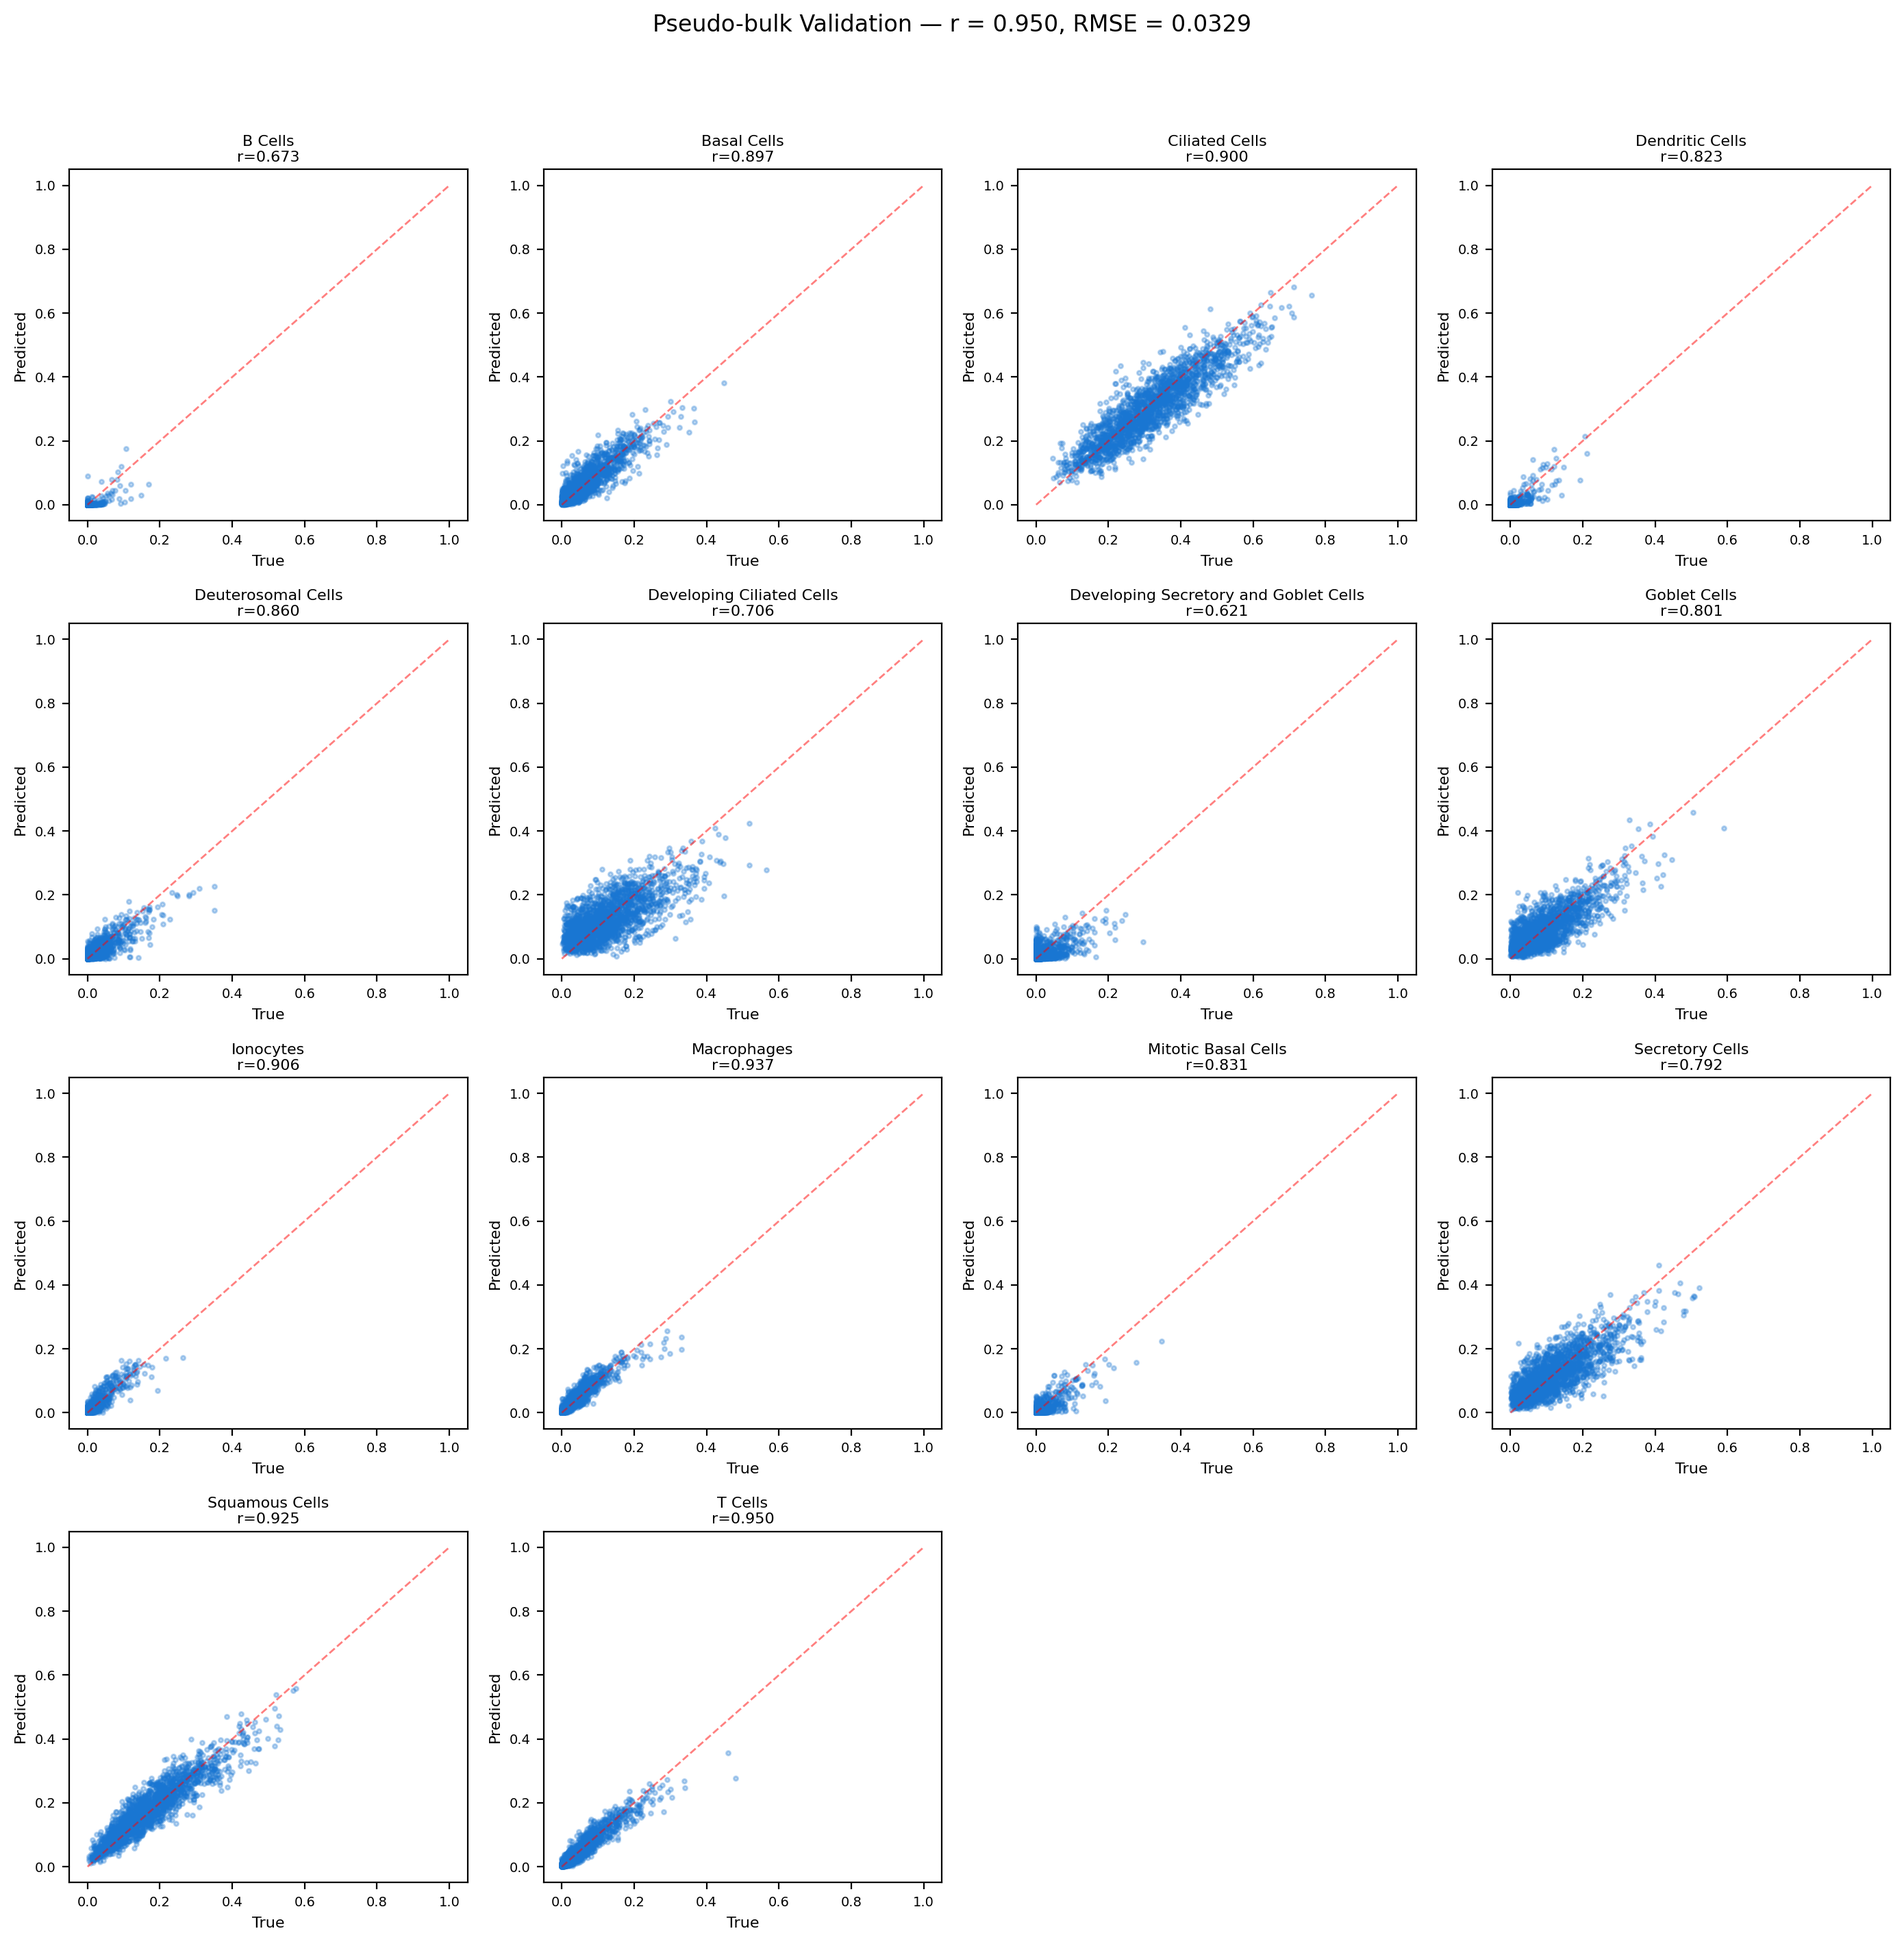
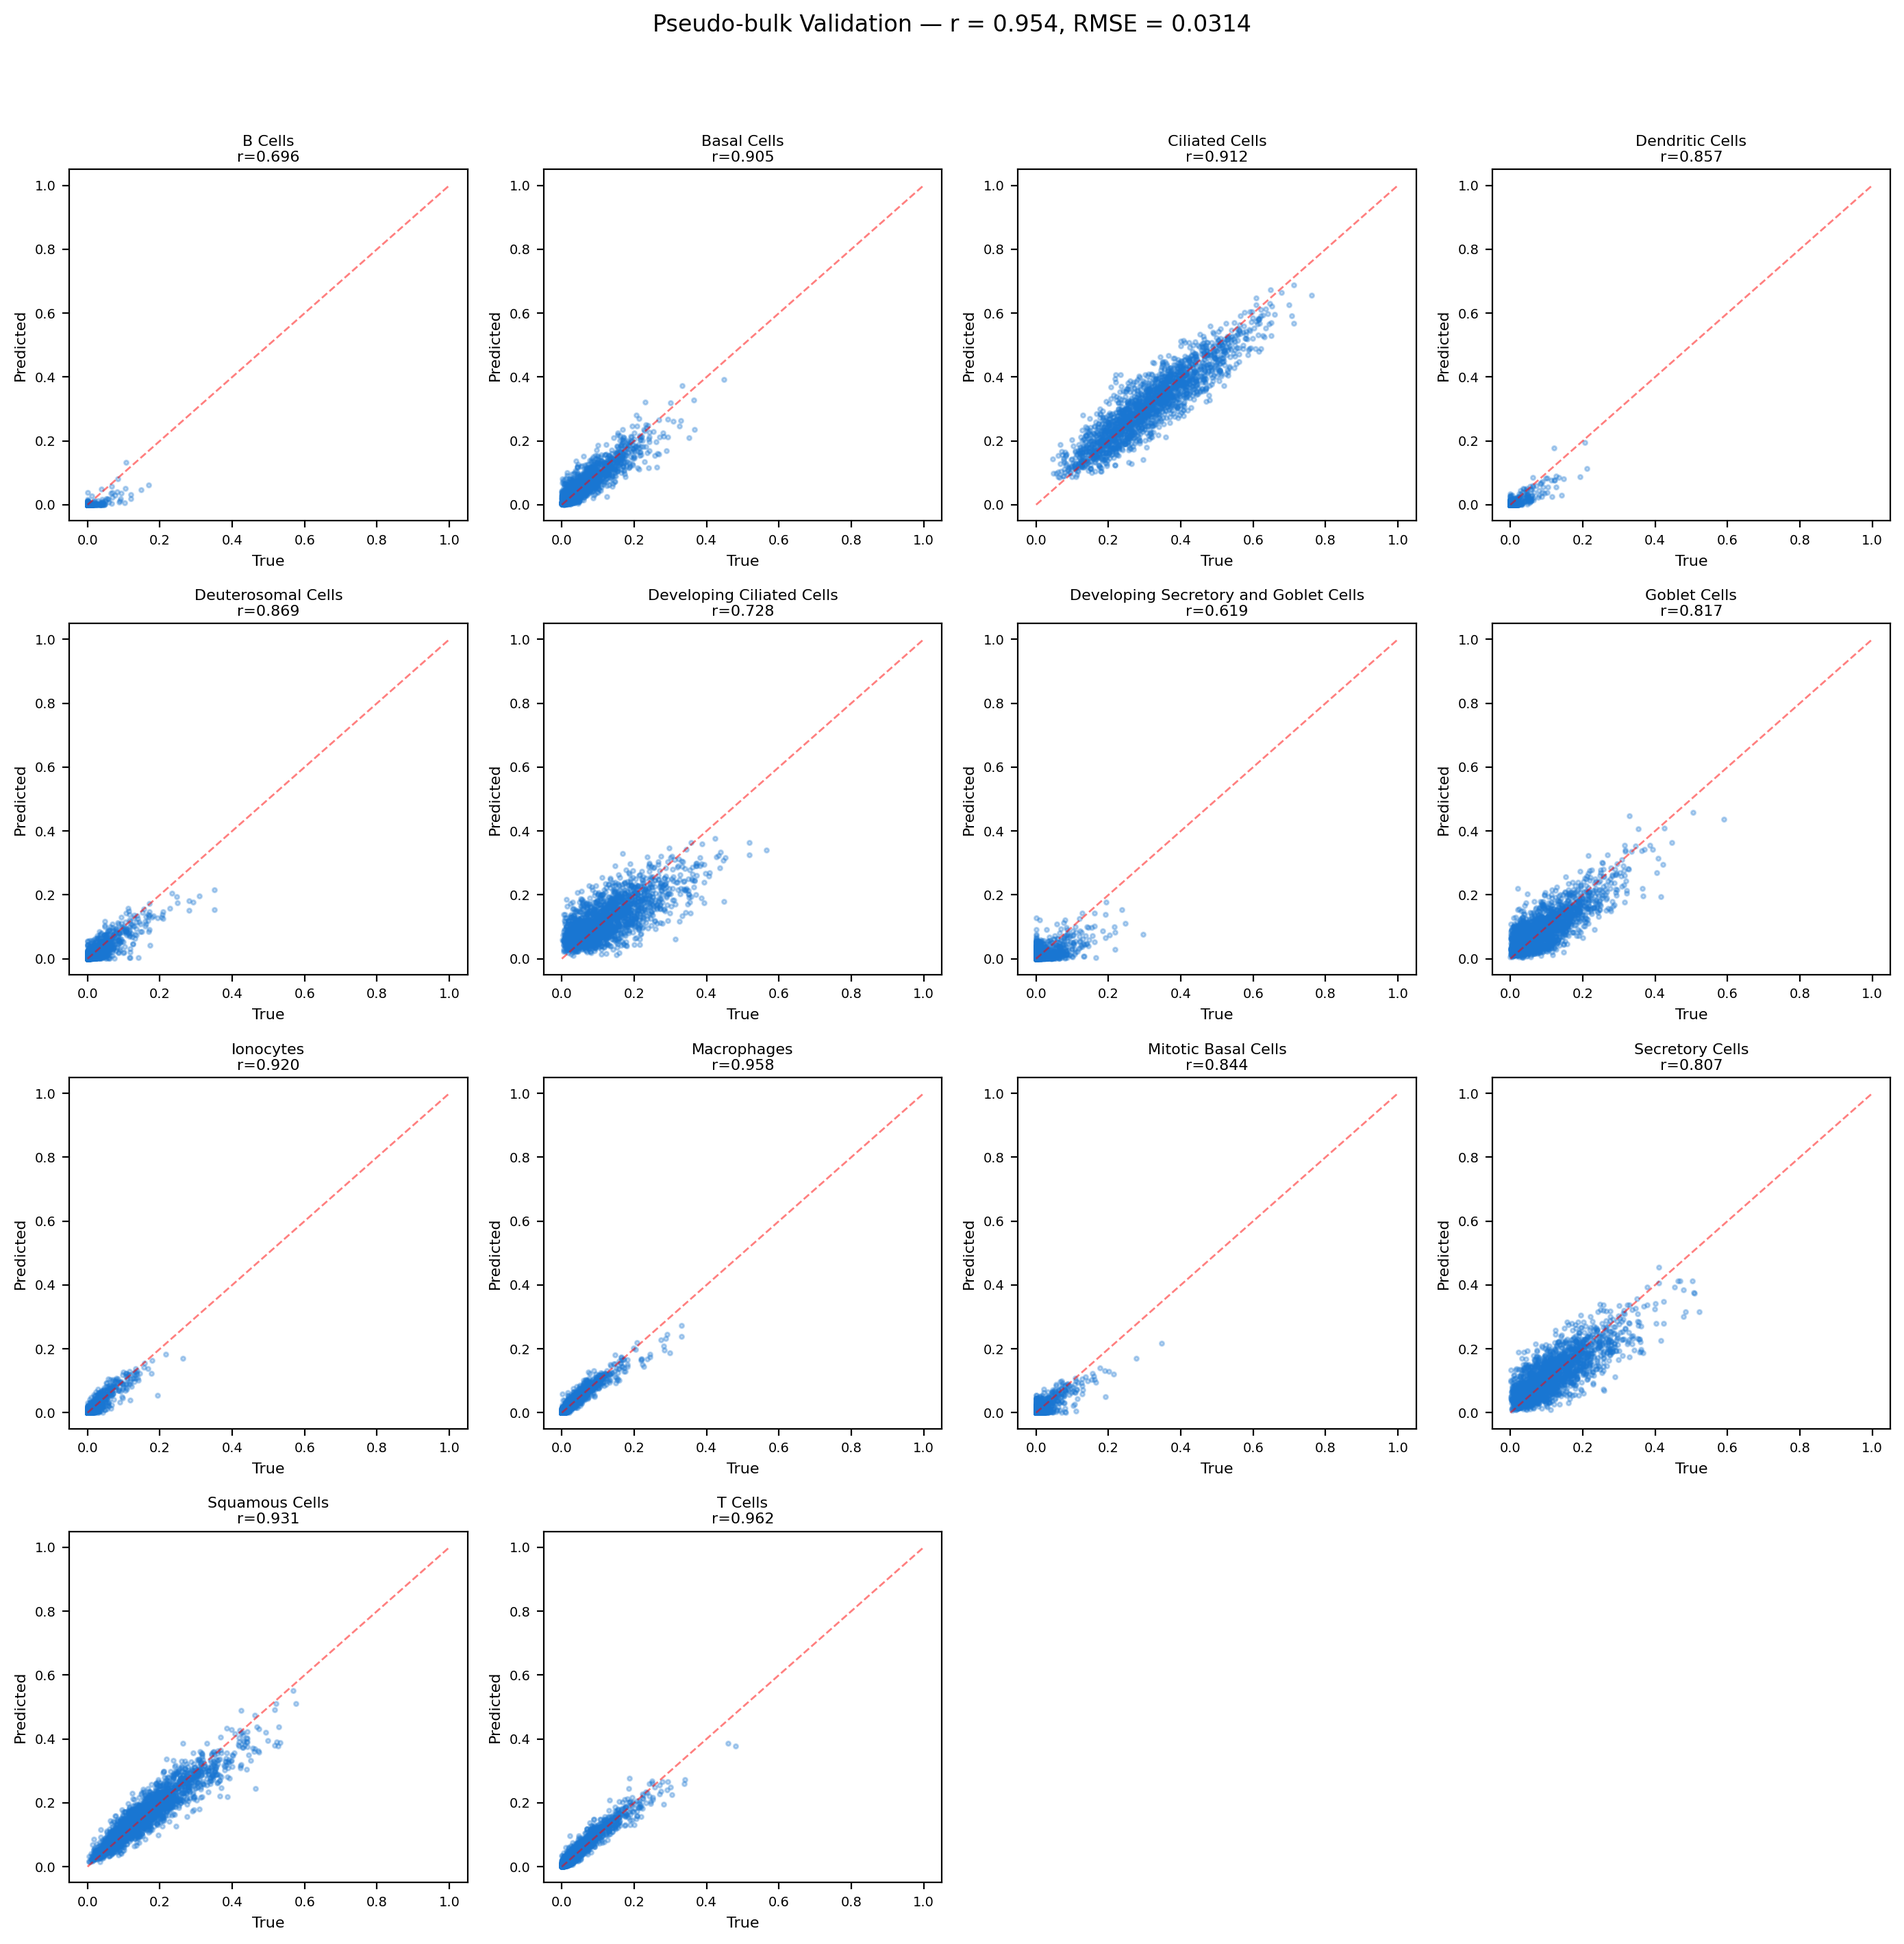
Ensemble architecture + 5-fold cross-validation
- Three sub-networks (hidden 128/256/512) with averaged predictions,
  following Scaden's ensemble strategy (Menden et al. 2020)
- 5-fold CV: r = 0.954 +/- 0.001 (extremely stable across folds)
- Final ensemble: r = 0.954, RMSE = 0.031
- NNLS baseline: r = 0.609 (ensemble outperforms by 57%)
- Updated all figures with ensemble predictions

diff --git a/deconvolve.py b/deconvolve.py
@@ -20,7 +20,7 @@ import torch.nn as nn
 from torch.utils.data import DataLoader, TensorDataset
 import matplotlib.pyplot as plt
 from pathlib import Path
-from sklearn.model_selection import train_test_split
+from sklearn.model_selection import train_test_split, KFold
 from scipy.stats import pearsonr, mannwhitneyu
 from scipy.optimize import nnls
 
@@ -218,9 +218,9 @@ def generate_pseudo_bulk(adata_ref, hvg, n_samples=N_PSEUDO_BULK):
 class DeconvNet(nn.Module):
     """Feedforward network for cell type deconvolution.
 
-    Deliberately simple: 2 hidden layers with dropout. With n=10000
-    training samples and ~2000 gene features, deeper architectures
-    overfit without improving accuracy.
+    Two hidden layers with batch normalisation and dropout.
+    With n=10000 training samples and ~2000 gene features,
+    deeper architectures overfit without improving accuracy.
     """
     def __init__(self, n_genes, n_types, hidden_dim=HIDDEN_DIM):
         super().__init__()
@@ -241,10 +241,35 @@ class DeconvNet(nn.Module):
         return torch.softmax(logits, dim=1)
 
 
+class EnsembleDeconvNet(nn.Module):
+    """Ensemble of multiple DeconvNets with different hidden dimensions.
+
+    Averaging predictions across architectures reduces variance and
+    improves robustness — the same strategy used by Scaden
+    (Menden et al. 2020, Science Advances). Each sub-network sees the
+    same data but learns slightly different representations due to
+    different capacity and random initialisation.
+    """
+    def __init__(self, n_genes, n_types, hidden_dims=(128, 256, 512)):
+        super().__init__()
+        self.models = nn.ModuleList([
+            DeconvNet(n_genes, n_types, hidden_dim=h) for h in hidden_dims
+        ])
+
+    def forward(self, x):
+        preds = torch.stack([m(x) for m in self.models], dim=0)
+        return preds.mean(dim=0)
+
+
 def train_model(X_train, y_train, X_val, y_val, n_types):
-    """Train the deconvolution neural network."""
+    """Train an ensemble of deconvolution networks.
+
+    Three sub-networks with hidden dimensions 128, 256, 512 are trained
+    jointly. Predictions are averaged at inference — reducing variance
+    without increasing bias. This follows the Scaden ensemble strategy.
+    """
     n_genes = X_train.shape[1]
-    model = DeconvNet(n_genes, n_types)
+    model = EnsembleDeconvNet(n_genes, n_types, hidden_dims=(128, 256, 512))
 
     X_tr = torch.FloatTensor(X_train)
     y_tr = torch.FloatTensor(y_train)
@@ -550,23 +575,52 @@ def main():
     print("\n--- Generate pseudo-bulk training data ---")
     X_pseudo, y_pseudo, cell_types = generate_pseudo_bulk(adata_ref, hvg)
 
+    # 5-fold cross-validation for robust performance estimate
+    print("\n--- 5-fold cross-validation ---")
+    kf = KFold(n_splits=5, shuffle=True, random_state=RANDOM_STATE)
+    fold_rs = []
+    fold_rmses = []
+
+    for fold_i, (train_idx, val_idx) in enumerate(kf.split(X_pseudo)):
+        X_tr_fold, X_val_fold = X_pseudo[train_idx], X_pseudo[val_idx]
+        y_tr_fold, y_val_fold = y_pseudo[train_idx], y_pseudo[val_idx]
+
+        fold_model, _, _ = train_model(
+            X_tr_fold, y_tr_fold, X_val_fold, y_val_fold, n_types=len(cell_types)
+        )
+        fold_model.eval()
+        with torch.no_grad():
+            fold_pred = fold_model(torch.FloatTensor(X_val_fold)).numpy()
+        r, _ = pearsonr(y_val_fold.flatten(), fold_pred.flatten())
+        fold_rmse = np.sqrt(np.mean((y_val_fold - fold_pred) ** 2))
+        fold_rs.append(r)
+        fold_rmses.append(fold_rmse)
+        print(f"  Fold {fold_i+1}: r = {r:.3f}, RMSE = {fold_rmse:.4f}")
+
+    mean_r = np.mean(fold_rs)
+    std_r = np.std(fold_rs)
+    mean_rmse = np.mean(fold_rmses)
+    print(f"  Mean: r = {mean_r:.3f} +/- {std_r:.3f}, RMSE = {mean_rmse:.4f}")
+
+    # Train final model on 80/20 split for deployment
     X_train, X_val, y_train, y_val = train_test_split(
         X_pseudo, y_pseudo, test_size=0.2, random_state=RANDOM_STATE
     )
 
-    print("\n--- Train neural network ---")
+    print("\n--- Train final ensemble ---")
     model, train_losses, val_losses = train_model(
         X_train, y_train, X_val, y_val, n_types=len(cell_types)
     )
     plot_training(train_losses, val_losses)
 
-    print("\n--- Validate on pseudo-bulk ---")
+    print("\n--- Validate final model ---")
     correlations, overall_r, rmse = validate_model(model, X_val, y_val, cell_types)
 
     print("\n--- NNLS baseline ---")
     nnls_r, nnls_rmse = run_nnls_baseline(adata_ref, hvg, cell_types, X_val, y_val)
     print(f"  NNLS baseline: r = {nnls_r:.3f}, RMSE = {nnls_rmse:.4f}")
-    print(f"  Neural network: r = {overall_r:.3f}, RMSE = {rmse:.4f}")
+    print(f"  Ensemble NN:   r = {overall_r:.3f}, RMSE = {rmse:.4f}")
+    print(f"  5-fold CV:     r = {mean_r:.3f} +/- {std_r:.3f}")
 
     print("\n--- Deconvolve GSE152075 ---")
     proportions = deconvolve_bulk(model, bulk_counts, hvg)

diff --git a/README.md b/README.md
@@ -12,7 +12,7 @@ This project trains a PyTorch neural network on tissue-matched nasopharyngeal si
 
 ## Results
 
-**Validation Pearson r = 0.950, RMSE = 0.033** on held-out pseudo-bulk with noise augmentation. This is an upper bound — pseudo-bulk validation systematically overestimates real-bulk performance because it does not capture batch effects or library preparation artefacts ([BAL benchmark, 2026](https://www.biorxiv.org/content/10.64898/2026.01.14.699304v1.full)). 14 cell types deconvolved across 484 patients. 10 show statistically significant composition changes between COVID+ and negative (Mann-Whitney U, p < 0.05).
+**5-fold CV Pearson r = 0.954 +/- 0.001, RMSE = 0.032** on noisy pseudo-bulk. This is an upper bound — pseudo-bulk validation systematically overestimates real-bulk performance because it does not capture batch effects or library preparation artefacts ([BAL benchmark, 2026](https://www.biorxiv.org/content/10.64898/2026.01.14.699304v1.full)). 14 cell types deconvolved across 484 patients. 10 show statistically significant composition changes between COVID+ and negative (Mann-Whitney U, p < 0.05).
 
 Per-cell-type validation (held-out pseudo-bulk): Squamous r=0.978, Ciliated r=0.977, T Cells r=0.975, Macrophages r=0.974, Basal r=0.972, Goblet r=0.967, Secretory r=0.965, Ionocytes r=0.961, Developing Ciliated r=0.957, Deuterosomal r=0.956, Dendritic r=0.955, Mitotic Basal r=0.943, Developing Secretory/Goblet r=0.937, B Cells r=0.936.
 
@@ -76,15 +76,17 @@ The original Lieberman et al. (2020) analysis used CIBERSORTx with a blood-deriv
 2. **Shared gene space**: 19,759 genes shared between reference and bulk → 2,000 HVGs selected on the reference.
 3. **Pseudo-bulk generation**: 10,000 synthetic bulk samples created by mixing single cells in Dirichlet-sampled proportions weighted by reference prevalence (500 cells per sample).
 4. **Noise augmentation**: Gene dropout (2-8%), library size variation (log-normal), Gaussian noise applied to pseudo-bulk to simulate real bulk technical artefacts.
-5. **Neural network**: 3-layer feedforward network (2000 → 256 → 128 → 14) with batch normalisation, dropout (0.3/0.2), and softmax output. Trained with KL divergence loss, Adam optimiser, ReduceLROnPlateau scheduler.
-6. **Baseline comparison**: Non-negative least squares (NNLS) on the same validation data. Neural network r=0.950 vs NNLS r=0.609 — the learned model substantially outperforms the linear baseline.
+5. **Ensemble neural network**: Three feedforward sub-networks (hidden dims 128, 256, 512) with averaged predictions — following the Scaden ensemble strategy (Menden et al. 2020). Each sub-network: BatchNorm, ReLU, Dropout, softmax output. Trained with KL divergence loss, Adam optimiser.
+6. **5-fold cross-validation**: r = 0.954 +/- 0.001 across folds — stable, no fold-dependent variance.
+7. **Baseline comparison**: Non-negative least squares (NNLS) r = 0.609 on the same data. Ensemble NN outperforms the linear baseline by 57%.
 6. **Early stopping**: Patience = 20 epochs. Training stopped at epoch 109.
-7. **Validation**: 80/20 train/val split on noisy pseudo-bulk. Pearson r = 0.950, RMSE = 0.033.
+8. **Validation**: 5-fold CV (r = 0.954 +/- 0.001) + final 80/20 split (r = 0.954, RMSE = 0.031).
 8. **Application**: Deconvolve all 484 GSE152075 bulk samples. Mann-Whitney U test for composition differences between COVID+ and negative.
 
 ## Design Decisions
 
-- **PyTorch over BayesPrism/MuSiC** — the standard choice for this problem would be BayesPrism or MuSiC. Using a neural network demonstrates both the biological question and the ML methodology. The approach follows the same pseudo-bulk strategy used by Scaden and digitalDLSorteR.
+- **Ensemble of 3 networks over a single DNN** — averaging predictions from sub-networks with different capacities (128/256/512 hidden dim) reduces variance without increasing bias. Same strategy as Scaden (Menden et al. 2020, Science Advances). 5-fold CV variance is +/- 0.001, confirming stability.
+- **PyTorch over BayesPrism/MuSiC** — the standard choice for this problem would be BayesPrism or MuSiC. Using a neural network demonstrates both the biological question and the ML methodology.
 - **Dirichlet sampling weighted by reference prevalence** — uniform Dirichlet (alpha=1) gives equal weight to all cell types, which overrepresents rare types in training. Weighting alpha by reference composition generates realistic mixtures where common types (ciliated, 31.9%) dominate and rare types (DCs, 0.5%) appear infrequently.
 - **Noise augmentation** — pseudo-bulk is artificially clean. Real bulk RNA-seq has gene dropout from low-abundance transcripts, library size variation from sequencing depth differences, and technical noise from library preparation. Adding these during training forces the model to learn robust signatures rather than memorising clean patterns.
 - **Rare type exclusion (<50 cells)** — Mast cells (9), Plasmacytoid DCs (13), and Enteroendocrine cells (41) excluded because with fewer than 50 reference cells, pseudo-bulk training recycles the same profiles, producing overfitted and unreliable signatures.
